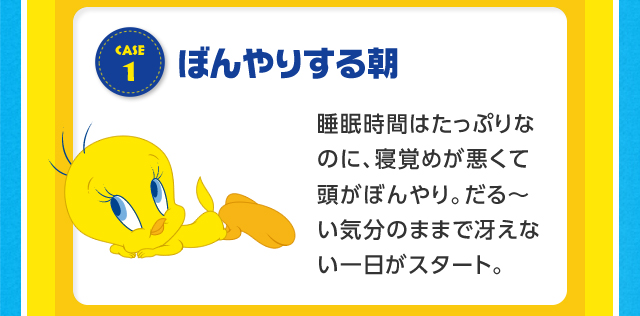
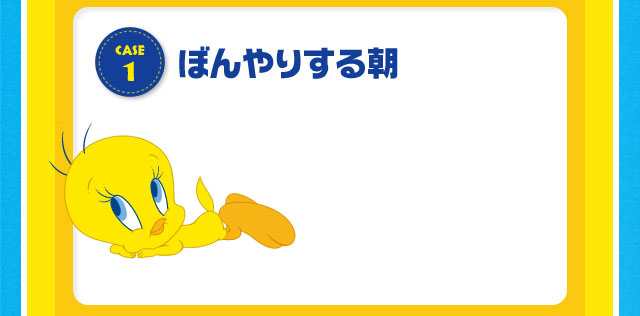
add text

diff --git a/Web-Responsive/Exercise3/index.html b/Web-Responsive/Exercise3/index.html
@@ -46,8 +46,12 @@
                 <picture>
                     <source srcset="images/PC/bnr02_PC.jpg" media="(min-width: 1200px)">
                     <source srcset="images/SP/bnr02_SP.jpg">
-                    <img src="images/SP/bnr02_SP.jpg" alt="bnr02">
+                    <img class="img__text" src="images/SP/bnr02_SP.jpg" alt="bnr02" />
                 </picture>
+                <p class="text__banner">
+                    TWEENTYと一緒に朝のスッキリ習慣をつけよう！
+                    デザインは全部で5種類！お店で見つけてね！
+                </p>
             </div>
             <div class="row">
                 <div class="col-1">
@@ -85,6 +89,14 @@
                     <source srcset="images/SP/bnr03_SP.jpg">
                     <img src="images/SP/bnr03_SP.jpg" alt="bnr03">
                 </picture>
+                <ul class="text__project">
+                    <li>スッキリ爽やかな味わいの朝食りんごヨーグルトを食べて、一日をスタートしよう！
+                    </li>
+                    <li>朝食りんごヨーグルトが、TWEENTYと一緒に朝のスッキリ習慣を応援します。                    
+                    </li>
+                </ul>
+                
+                
             </div>
             <div class="row">
                 <div class="col-1">
@@ -93,6 +105,13 @@
                         <source srcset="images/SP/case01_SP.jpg">
                         <img src="images/SP/case01_SP.jpg" alt="case01">
                     </picture>
+                    <ul class="text__case text__case__1">
+                        <li>春の暖かさでついつい二度寝。</li>
+                        <li>気が付いたらもうこんな時間！</li>
+                        <li>朝ごはんも食べずにおうちを</li>
+                        <li>飛び出したら、なんか</li>
+                        <li>あわただしい一日に。</li>
+                    </ul>
                 </div>
                 <div class="col-1">
                     <picture>
@@ -100,6 +119,13 @@
                         <source srcset="images/SP/case02_SP.jpg">
                         <img src="images/SP/case02_SP.jpg" alt="case02">
                     </picture>
+                    <ul class="text__case text__case__2">
+                        <li>睡眠時間がたっぷりなの</li>
+                        <li>に、寝覚めが悪くて頭がぼ</li>
+                        <li>んやり。</li>
+                        <li>だる～い気分のままで</li>
+                        <li>冴えない一日がスタート。</li>
+                    </ul>
                 </div>
             </div>
             <div class="row">
@@ -109,6 +135,13 @@
                         <source srcset="images/SP/case03_SP.jpg">
                         <img src="images/SP/case03_SP.jpg" alt="case03">
                     </picture>
+                    <ul class="text__case text__case__3">
+                        <li>ちょっと体調がよくなったり、</li>
+                        <li>寝起きで食欲が出なかったり、</li>
+                        <li>そんな朝。</li>
+                        <li>おなかがからっぽのままだから、</li>
+                        <li>ますます元気がなくなっちゃう。</li>
+                    </ul>
                 </div>
                 <div class="col-1">
                     <picture>
@@ -116,6 +149,16 @@
                         <source srcset="images/SP/case04_SP.jpg">
                         <img src="images/SP/case04_SP.jpg" alt="case04">
                     </picture>
+                    <ul class="text__case text__case__4">
+                        <li>忙しい毎日で疲れがとれない。</li>
+                        <li>今日はもうお休みしたいな。</li>
+                        <li>朝から気持ちが切り替えずに</li>
+                        <li>一日中ブルーな気分に。</li>
+                    </ul>
+                    <p class="text__case text__case4__1"></p>
+                    <p class="text__case text__case4__2"></p>
+                    <p class="text__case text__case4__3"></p>
+                    <p class="text__case text__case4__4"></p>
                 </div>
             </div>
             <div class="col-2">

diff --git a/Web-Responsive/Exercise3/css/styles.css b/Web-Responsive/Exercise3/css/styles.css
@@ -33,6 +33,76 @@ img {
   display: table;
 }
 
+p {
+  font-weight: 600;
+  position: absolute;
+}
+
+ul{
+  position: absolute;
+  list-style: none;
+}
+
+.text__banner {
+  text-align: center;
+  color: #4d6eb1;
+  font-size: 23px;
+  font-weight: bold;
+  width: 84%;
+  bottom: 11%;
+  left: 9%;
+}
+
+.text__project {
+  font-size: 22px;
+  text-align: left;
+  color: #305486;
+  font-weight: bold;
+  width: 80%;
+  left: 10%;
+  bottom: 8%;
+}
+
+.text__project li {
+  font-size: 22px;
+}
+
+.text__case {
+  color: black;
+  font-size: 13px;
+  text-align: left;
+  font-weight: bold;
+}
+
+.text__case li {
+  display: inline;
+  font-size: 20px;
+}
+
+.text__case__1 {
+  width: 35%;
+  left: 18%;
+  bottom: 10%;
+}
+
+.text__case__2 {
+  width: 34%;
+  left: 50%;
+  bottom: 14%;
+}
+
+.text__case__3 {
+  width: 42%;
+  left: 18%;
+  bottom: 16%;
+}
+
+.text__case__4 {
+  width: 37%;
+  left: 45%;
+  bottom: 21%;
+}
+
 .hide {
   display: none;
 }
@@ -77,6 +147,49 @@ img {
 
   .hide {
     display: block;
+  }
+
+  .text__banner {
+    font-size: 20px;
+    width: 40%;
+    bottom: 9%;
+    left: 30%;
+  }
+
+  .text__project {
+    text-align: center;
+    width: 80%;
+    left: 10%;
+    bottom: 7%;
+  }
+
+  .text__project li {
+    font-size: 17px;
+  }
+
+  .text__case li {
+    display: block;
+    font-size: 14px;
+  }
+
+  .text__case__1 {
+    left: 36%;
+    bottom: 10%;
+  }
+  
+  .text__case__2 {
+    left: 6%;
+    bottom: 10%;
+  }
+  
+  .text__case__3 {
+    left: 36%;
+    bottom: 18%;
+  }
+  
+  .text__case__4 {
+    left: 6%;
+    bottom: 26%;
   }
 
   .button__left {

diff --git a/Web-Responsive/Exercise1/css/styles.css b/Web-Responsive/Exercise1/css/styles.css
@@ -276,7 +276,6 @@ p {
     float: left;
   }
   .show {
-    /* display: block; */
     display: inline;
   }
   .hide {
